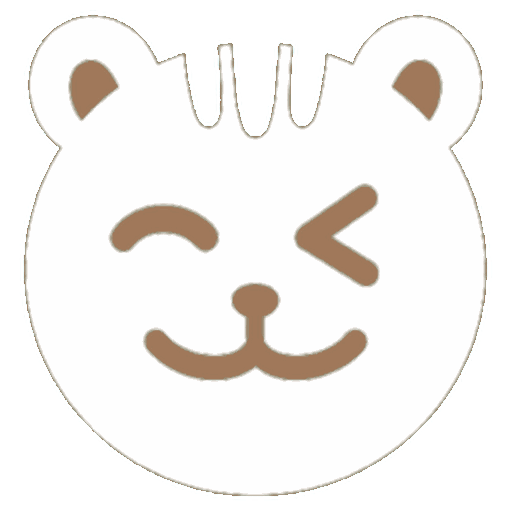
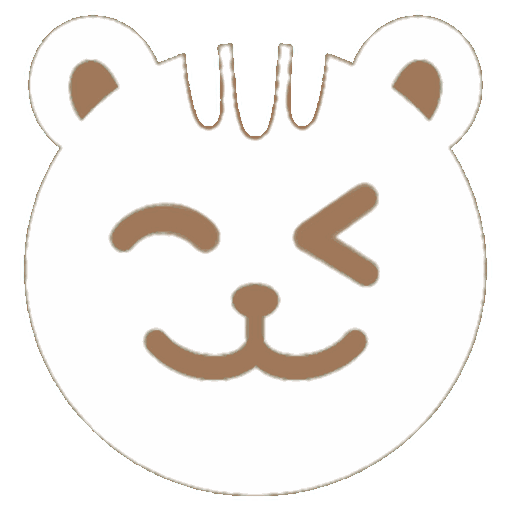
v1.22.1 竖毛补棕：原画里这三条竖纹是极淡浅青细线，直接染色只得淡棕 → 改饱和映射推成实棕（浅/深两态都清晰）+ 收边平滑

diff --git a/index.html b/index.html
@@ -937,7 +937,7 @@
 
 <footer>
   <div>纯本地运行 · 数据只保存在你的浏览器中 · 记得定期「导出进度」</div>
-  <div>v1.22.0</div>
+  <div>v1.22.1</div>
 </footer>
 
 <!-- 数据来源：knowledge-studio 母数据产物（由 tools/build_web_data.py 生成）；旧 knowledge.js 保留不引用 -->
